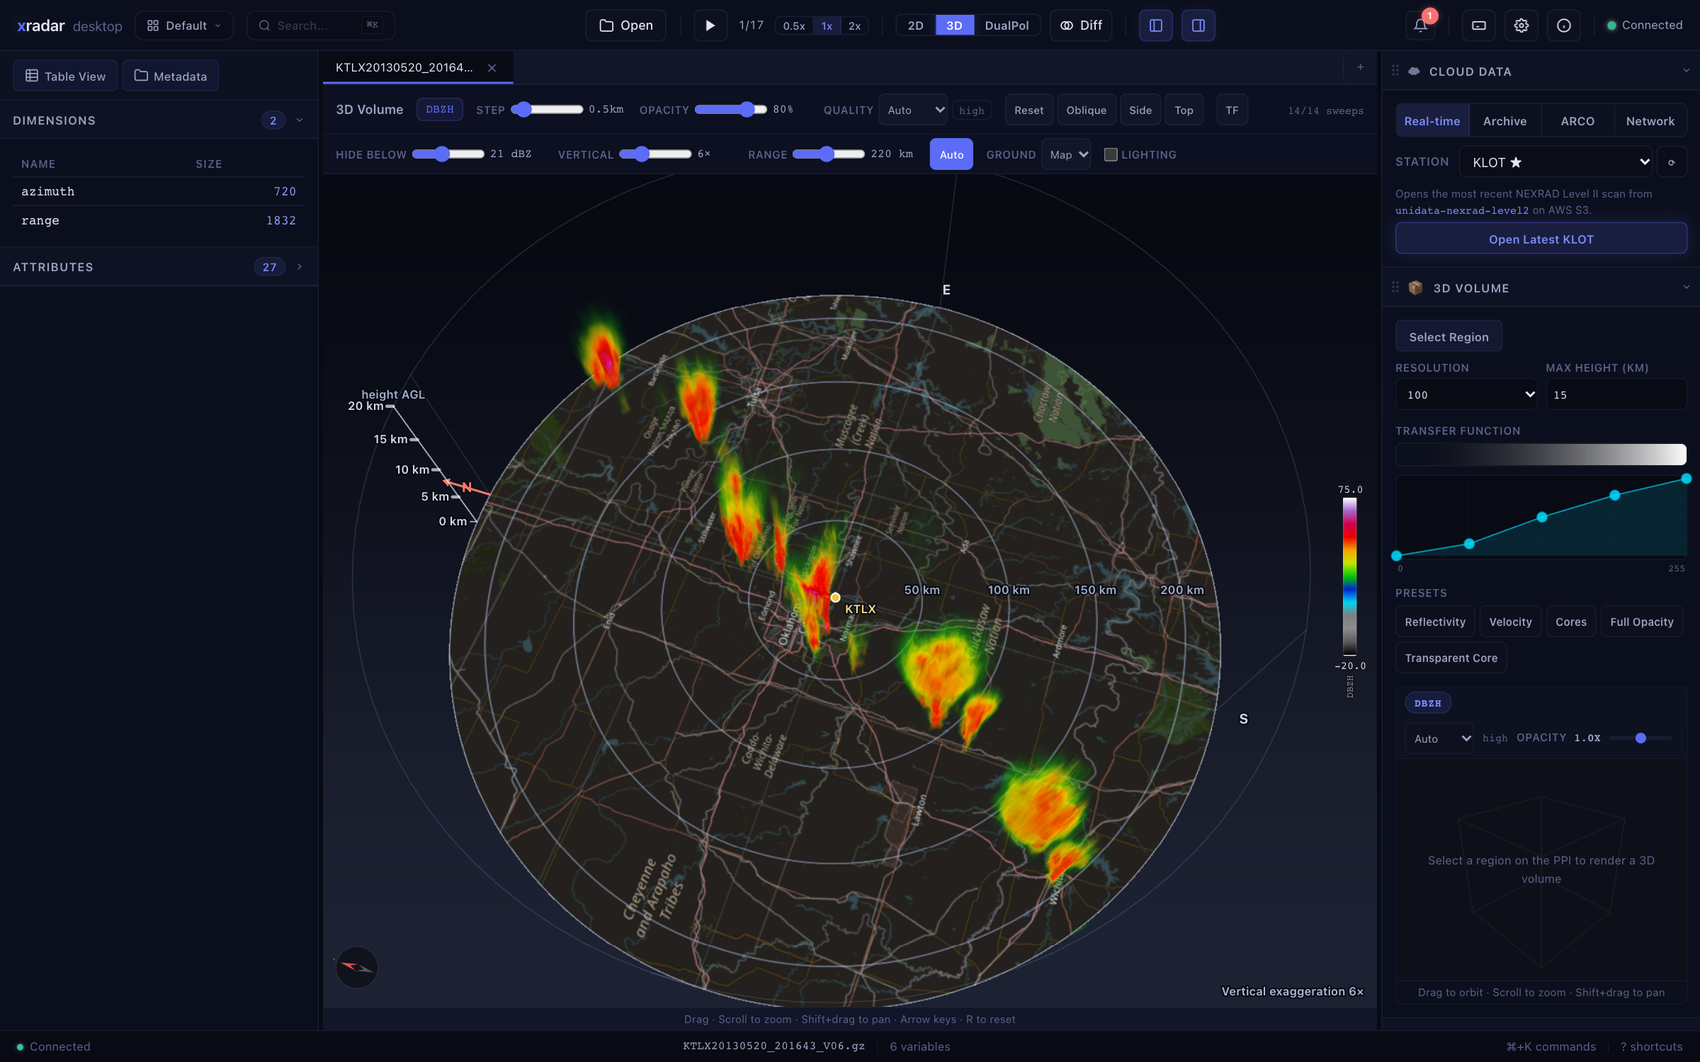
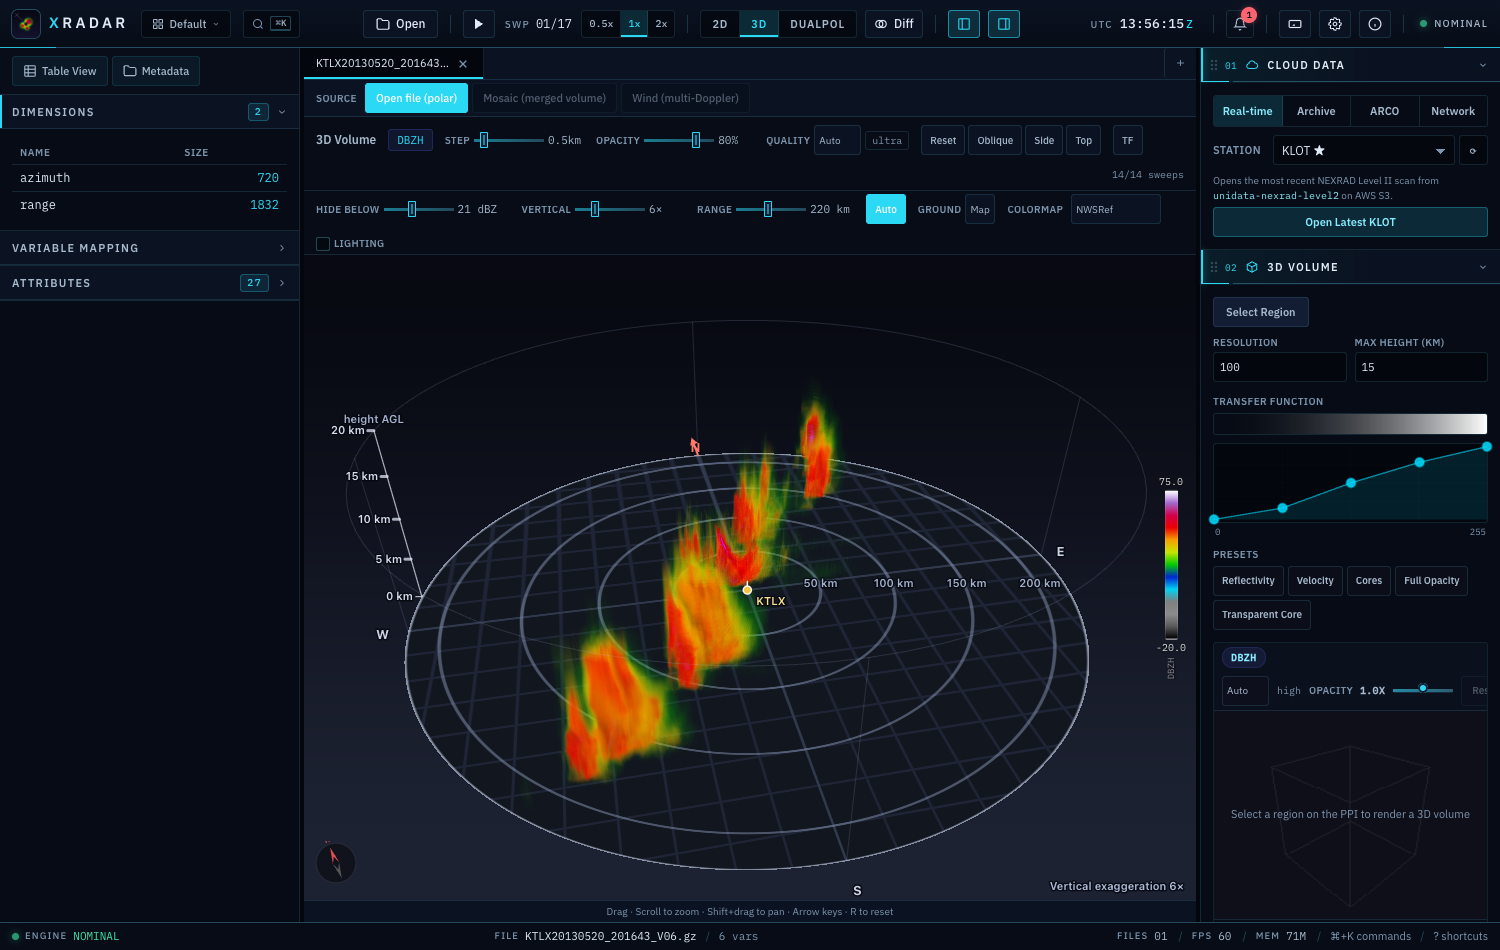
Docs: refresh the README and UI screenshots from the current design (dark and light, real app and real NEXRAD/Mayfield data), images under 500 KB

diff --git a/README.md b/README.md
@@ -20,7 +20,13 @@ labelled method applied to it, or a labelled picture, and nothing is invented. S
 
 <sub>Reflectivity from KTLX (Oklahoma City), 20 May 2013, 0.5° sweep. NEXRAD Level II, exported from the app.</sub>
 
-![xradar-desktop showing the same scan on a map](docs/images/app-2d.png)
+<p align="center">
+  <img src="docs/images/app-2d.png" width="49%" alt="xradar-desktop, dark theme: the same scan in the 2D view">
+  <img src="docs/images/app-2d-light.png" width="49%" alt="xradar-desktop, light theme: the same scan in the 2D view">
+</p>
+
+<sub>The 2D view in the dark and light themes (screenshots taken offline, so the map basemap is switched off; the app
+draws OpenStreetMap or OpenTopoMap under the scan when it is on).</sub>
 
 ## Download
 
@@ -61,7 +67,10 @@ for files with no extension, like NEXRAD Level II (`KTLX20130520_201643_V06`). O
 Pan and zoom a GPU-rendered PPI on a map, then switch to the 3D volume: every sweep is ray-marched on the GPU, with
 a transfer-function editor, a map ground plane and adjustable vertical exaggeration.
 
-![3D volume of the Oklahoma squall line over a map](docs/images/app-3d.png)
+<p align="center">
+  <img src="docs/images/app-3d.png" width="49%" alt="3D volume of the Oklahoma squall line, dark theme">
+  <img src="docs/images/app-3d-light.png" width="49%" alt="3D volume of the Oklahoma squall line, light theme">
+</p>
 
 ### Range-height scans (RHI)
 
@@ -107,7 +116,7 @@ field that you view in 2D, in 3D, or export. Included: hydrometeor classificatio
 rotation couplets, shear, ZDR arcs, ZDR columns, storm detection, cell size sorting, and more. Write your own in
 about ten lines, see [docs/MODULES.md](docs/MODULES.md).
 
-![Hydrometeor classification run on every sweep, shown on the map, with the Modules panel open](docs/images/modules-hid.png)
+![Hydrometeor classification run on every sweep, with the Modules panel open](docs/images/modules-hid.png)
 
 ### Clean the data
 

diff --git a/docs/viewing.md b/docs/viewing.md
@@ -12,6 +12,16 @@ where nothing is drawn.
 :width: 100%
 ```
 
+The same view in the light theme (*Settings → Appearance → Clean room*):
+
+```{image} images/app-2d-light.png
+:alt: The 2D view, light theme
+:width: 100%
+```
+
+*The screenshots were taken offline, so the map basemap is switched off; the app draws OpenStreetMap or OpenTopoMap
+under the scan when it is on.*
+
 The colour map of a variable can be changed with *Edit* next to the colour bar (the same choice is used in the
 3D view). The timeline under the map steps through the sweeps (`Home`/`End`, the play button and 0.5×/1×/2×
 speed).

diff --git a/docs/settings.md b/docs/settings.md
@@ -6,6 +6,15 @@
 :align: center
 ```
 
+The *Appearance* choice switches between the dark theme (*Mission control*), a light theme (*Clean room*) and the
+system setting; the accent colour and font size are next to it.
+
+```{image} images/ui/settings-light.png
+:alt: The settings dialog in the light theme
+:width: 60%
+:align: center
+```
+
 The gear in the top bar opens the settings: the default data folder, the colour theme, the map background, the
 3D quality and what the interface remembers between sessions. Keyboard shortcuts are listed under `?`.
 
